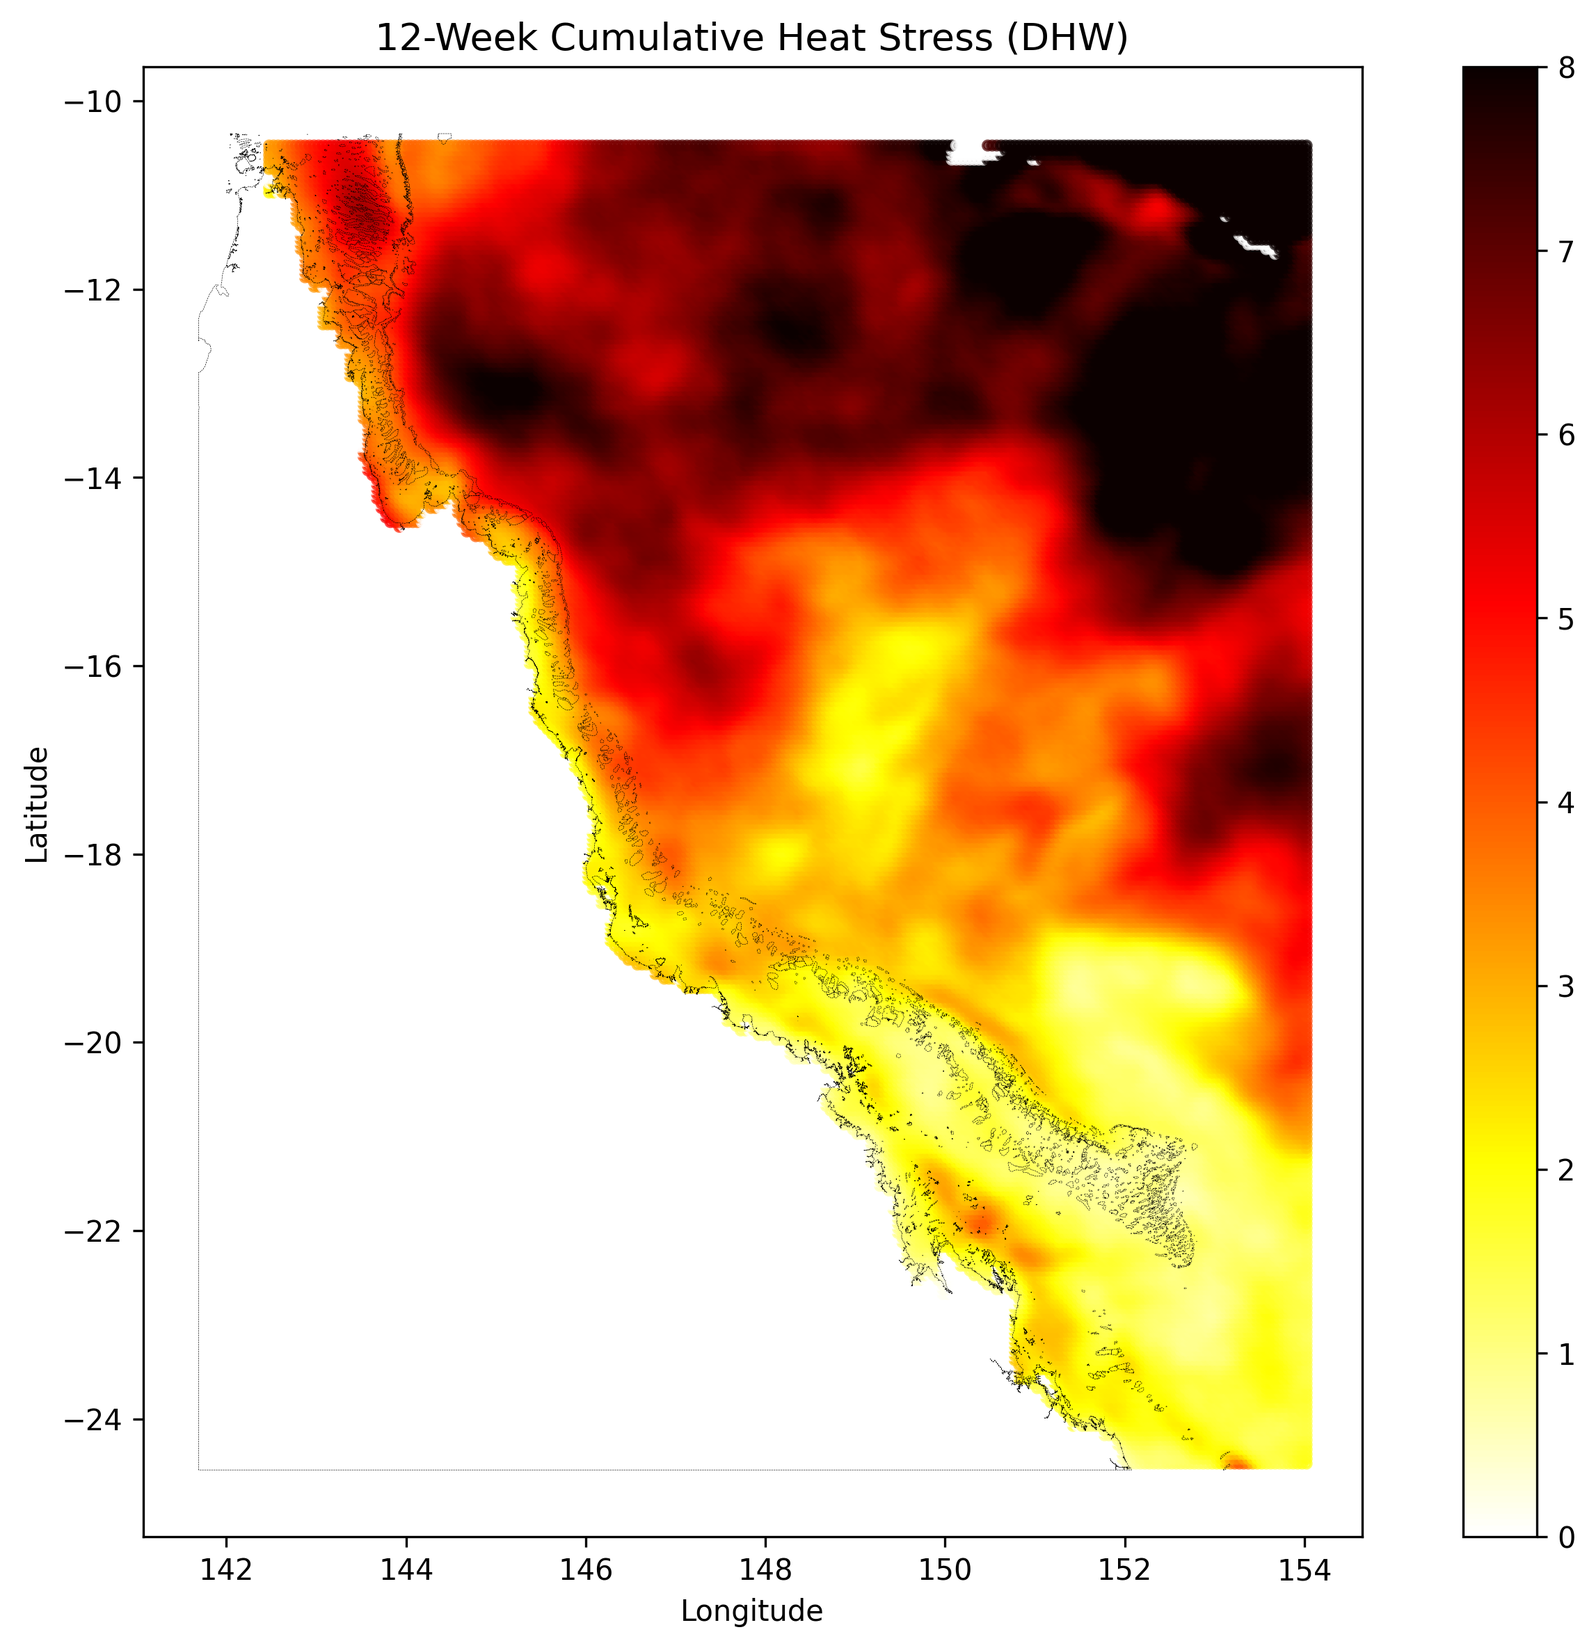
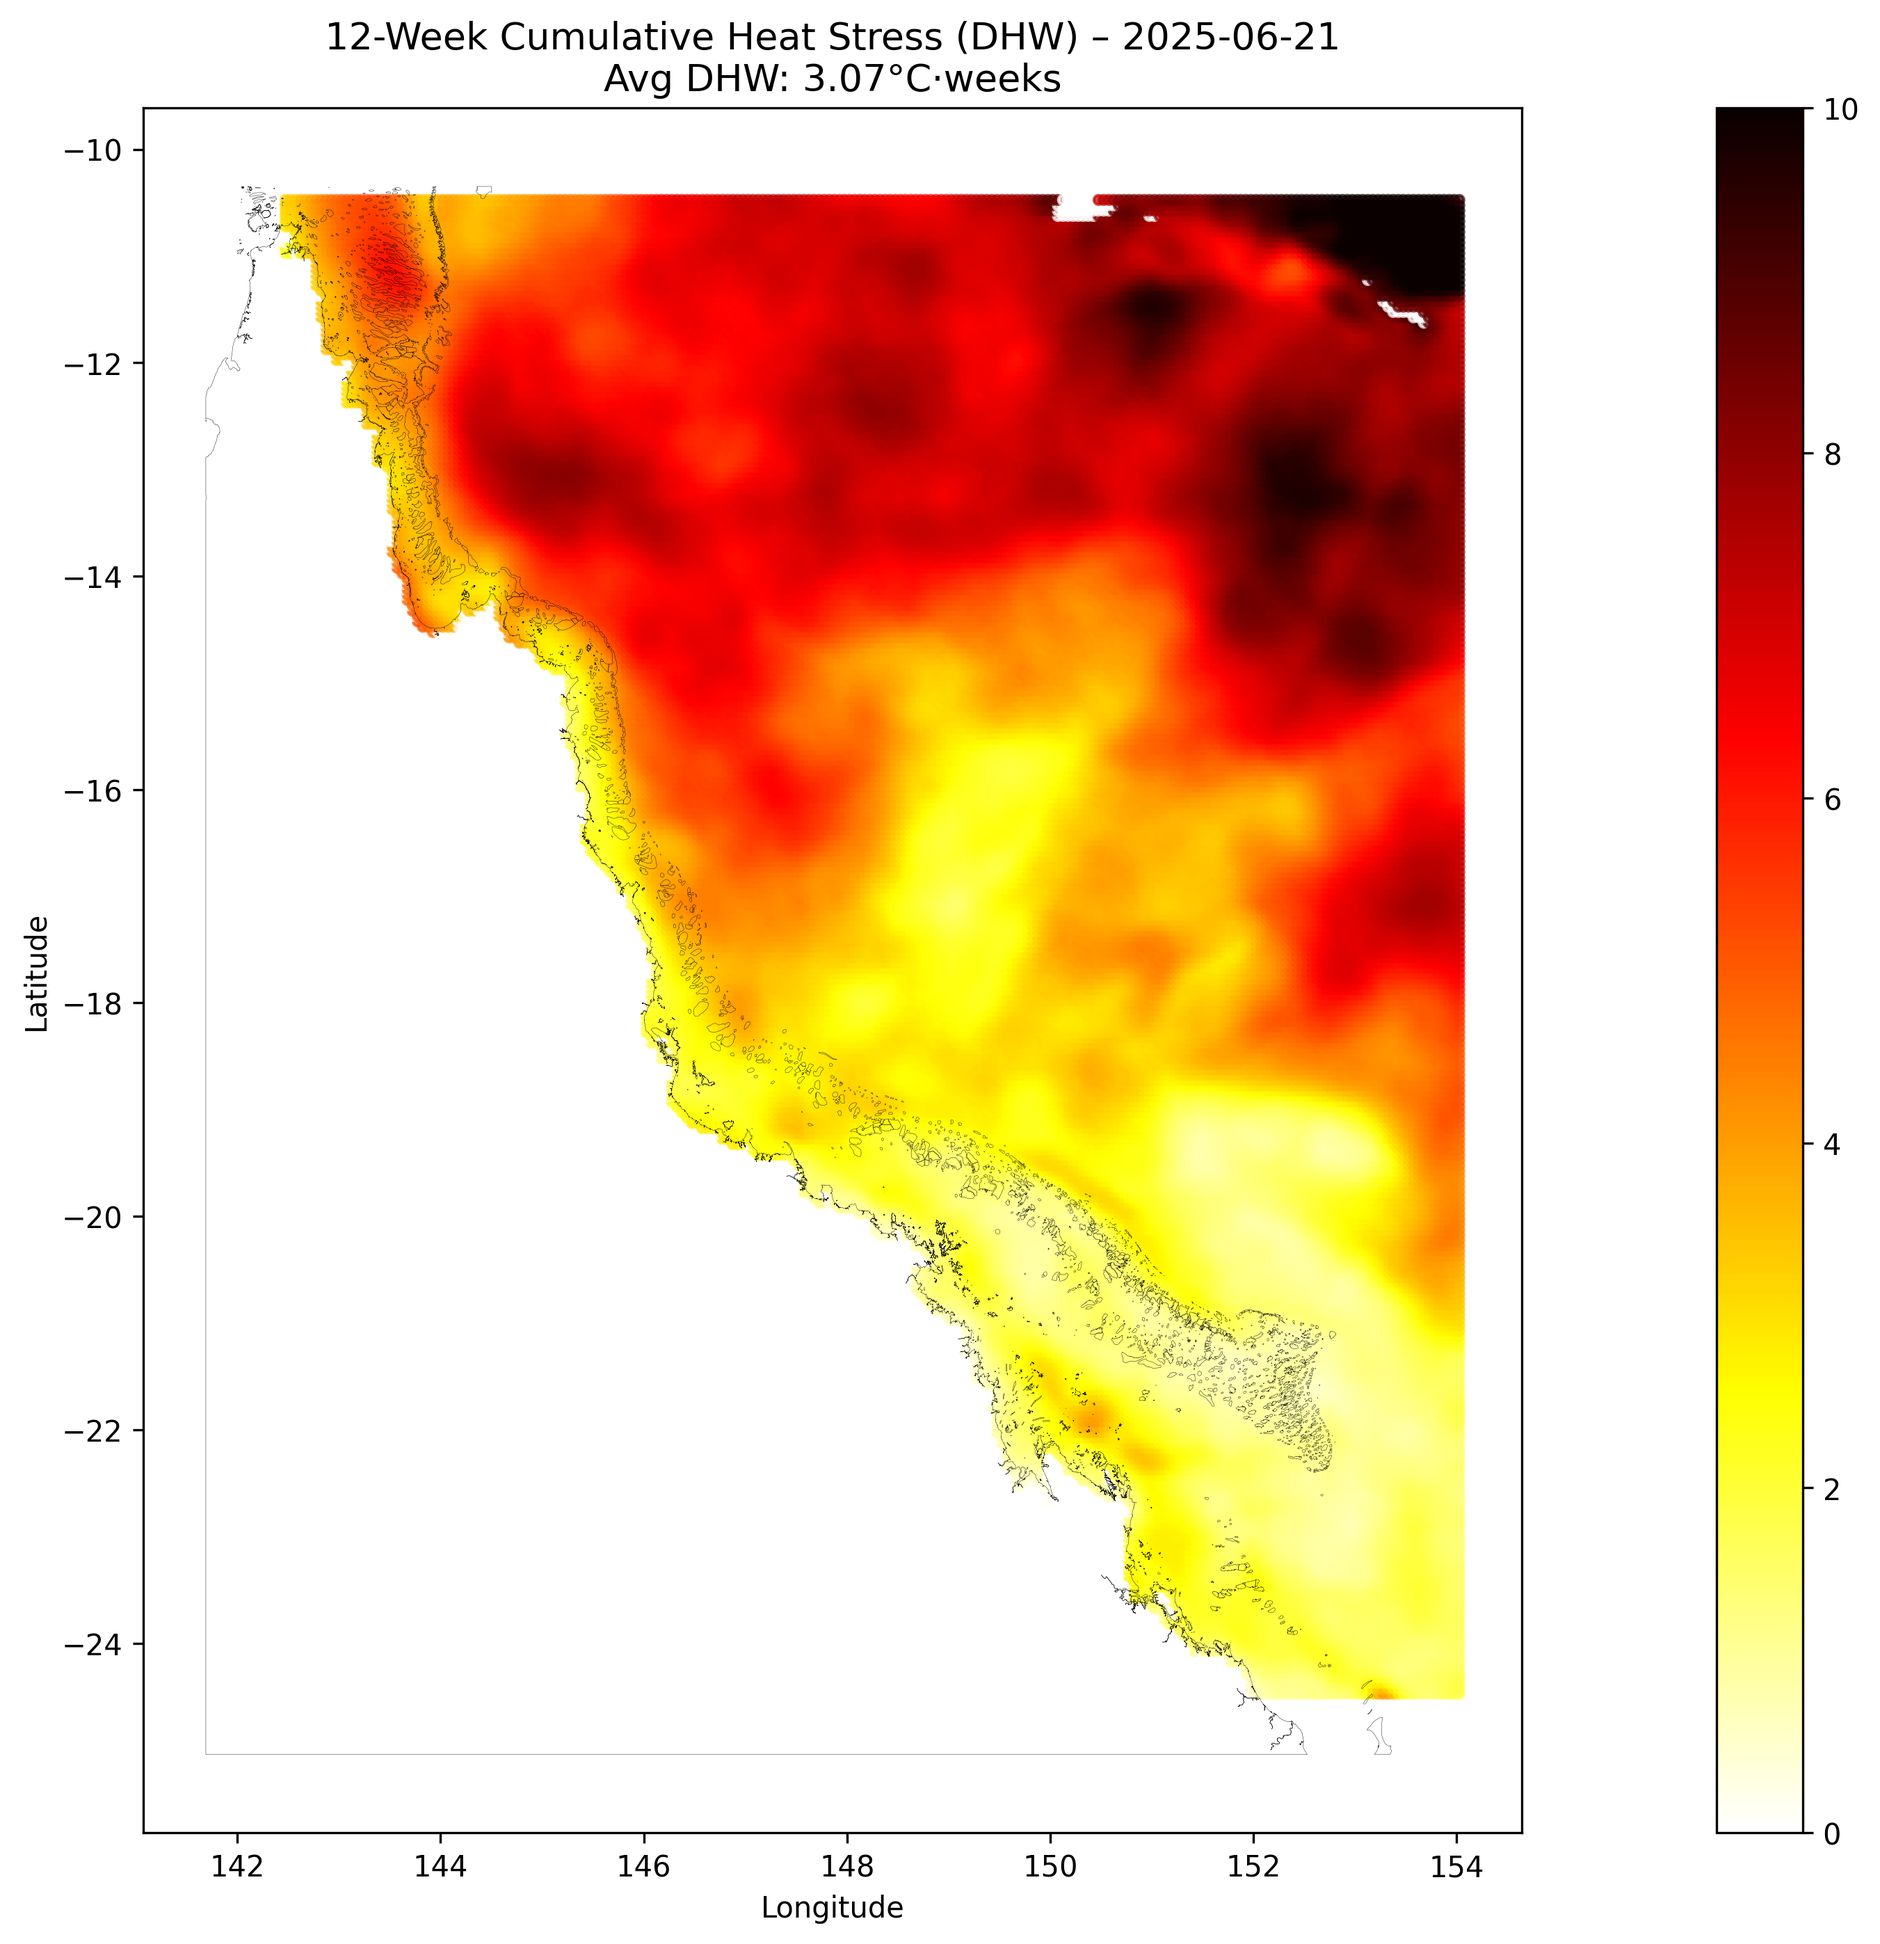
update map

diff --git a/code/map.py b/code/map.py
@@ -5,20 +5,16 @@ from pathlib import Path
 import geopandas as gpd
 import pandas as pd
 import matplotlib.pyplot as plt
-import contextily as ctx
+from datetime import datetime
 
 # Resolve project root
 project_root = Path(__file__).resolve().parents[1]
 print(f"Using project root: {project_root}")
 
 # Define paths
-shapefile_gbr = project_root / "data" / "raw" / "shapefile_gbr" / "worldheritagemarineprogramme.shp"
 shapefile_gbr_features = project_root / "data" / "raw" / "shapefile" / "Great_Barrier_Reef_Features.shp"
 csv_path = project_root / "data" / "base" / "dhw_12weeks.csv"
 output_path = project_root / "output" / "dhw_map.png"
-
-# Load GBR shapefile
-gbr = gpd.read_file(shapefile_gbr).to_crs("EPSG:4326")
 
 # Load GBR features
 gbr_features = gpd.read_file(shapefile_gbr_features).to_crs("EPSG:4326")
@@ -33,35 +29,35 @@ sst_gdf = gpd.GeoDataFrame(
     crs="EPSG:4326"
 )
 
-# Spatial join: keep only points within GBR polygon
-sst_within_gbr = gpd.sjoin(sst_gdf, gbr, predicate='within', how='inner')
-
 # Compute average DHW
-mean_dhw = sst_within_gbr['DHW'].mean()
-print(f"Average DHW inside GBR: {mean_dhw:.2f}°C·weeks")
+mean_dhw = sst_gdf['DHW'].mean()
+print(f"Average DHW (all data): {mean_dhw:.2f}°C·weeks")
+
+# Current date
+current_date = datetime.now().strftime("%Y-%m-%d")
 
 # Plot DHW points
 fig, ax = plt.subplots(figsize=(10, 8))
 
-# Plot DHW points inside GBR
-sst_within_gbr.plot(
+# Plot DHW points with capped max at 10
+sst_gdf.plot(
     ax=ax,
     column='DHW',
     cmap='hot_r',
     legend=True,
     markersize=10,
-    alpha=0.7
+    alpha=0.7,
+    vmax=10
 )
 
-# Outline GBR region and features
-gbr.boundary.plot(ax=ax, color='black', linewidth=1)
-gbr_features.boundary.plot(ax=ax, color='blue', linewidth=0.8, linestyle='--')
-
-# Add basemap
-ctx.add_basemap(ax, source=ctx.providers.OpenStreetMap.Mapnik, crs=sst_gdf.crs)
+# Plot GBR feature outlines in black with thin lines
+gbr_features.boundary.plot(ax=ax, color='black', linewidth=0.1)
 
 # Titles and labels
-ax.set_title(f"12-Week Cumulative Heat Stress (DHW) – Great Barrier Reef\nAvg DHW: {mean_dhw:.2f}°C·weeks", fontsize=13)
+ax.set_title(
+    f"12-Week Cumulative Heat Stress (DHW) – {current_date}\nAvg DHW: {mean_dhw:.2f}°C·weeks",
+    fontsize=13
+)
 ax.set_xlabel("Longitude")
 ax.set_ylabel("Latitude")
 
